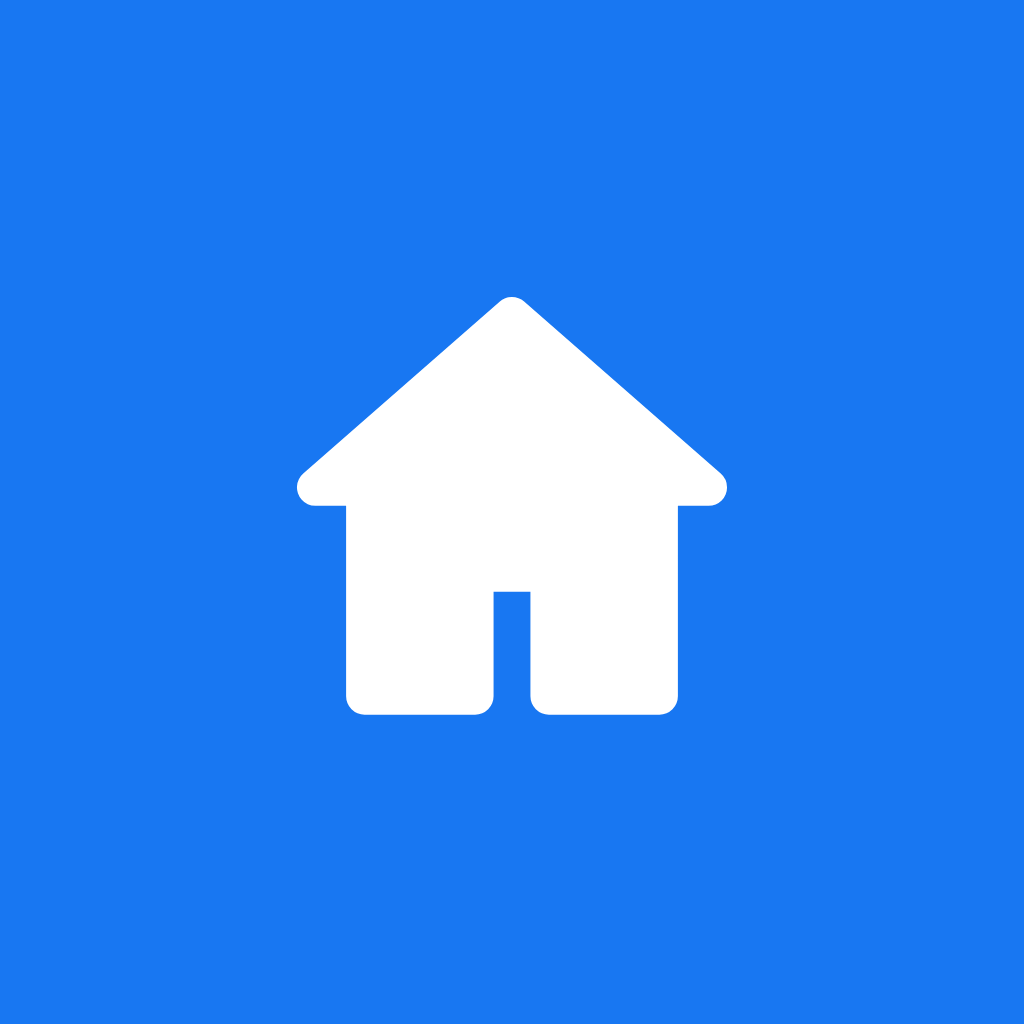
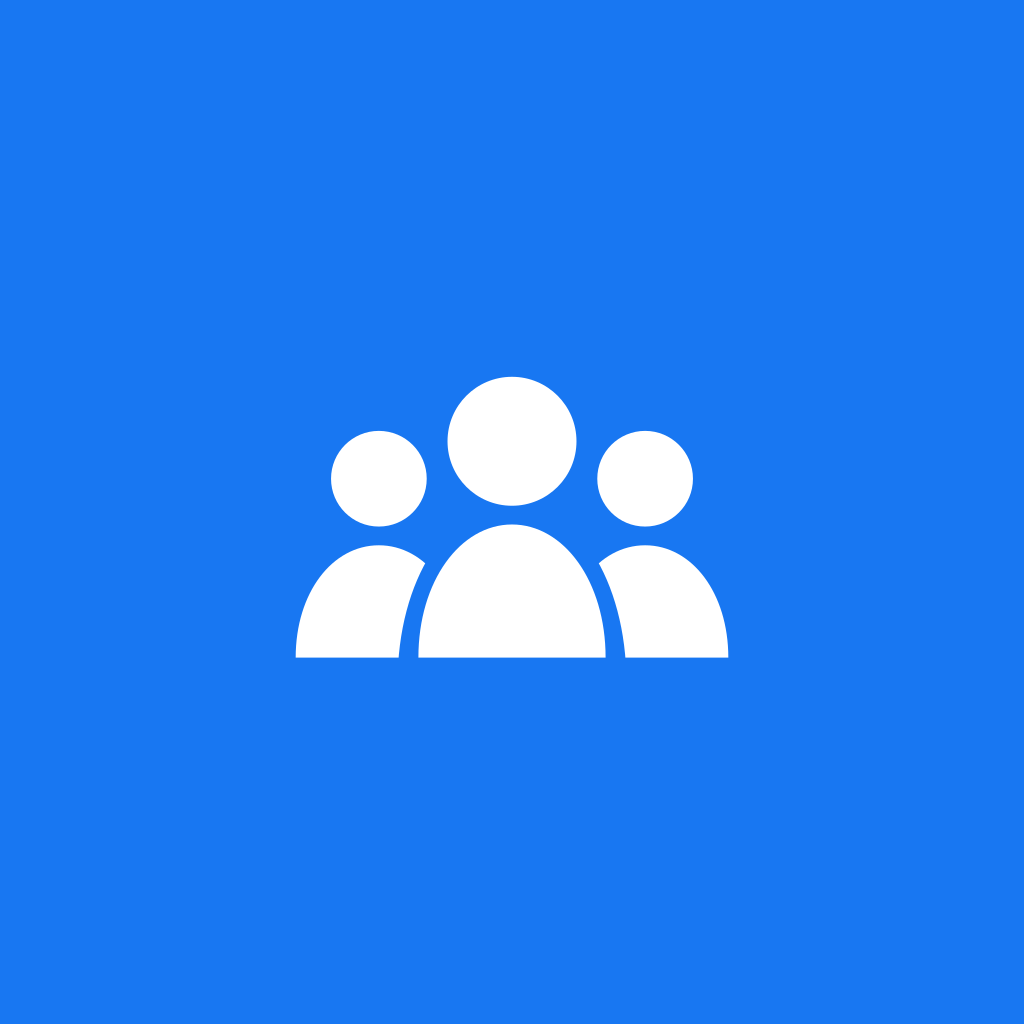
New community mark in place of the house; privacy page states Sponsored listings
- The CampConnect mark is now three people, the one in front a little
  larger, white on the brand blue. It replaces the house in the website's
  navbar and sign-in page (BrandMark), the favicon, and the app's icon,
  Android adaptive icon, splash image and web favicon, all drawn from one
  shape. The Home tab keeps its house icon.
- Privacy: "We do not show advertising" is replaced by a Sponsored listings
  section. Student accounts are free. CampConnect may show labeled Sponsored
  listings and promotions from local businesses, chosen by campus.
  Businesses see only totals for their own listings and deals, and see who
  you are only if you message them.

Changed region(s): [[0.2812, 0.2812, 0.7188, 0.7188]]

diff --git a/apps/web/src/app/privacy/page.tsx b/apps/web/src/app/privacy/page.tsx
@@ -5,13 +5,15 @@ export const metadata: Metadata = { title: "Privacy policy" };
 
 export default function PrivacyPage() {
   return (
-    <LegalPage title="Privacy policy" updated="September 2026">
+    <LegalPage title="Privacy policy" updated="October 2026">
       <h2>What we collect</h2>
       <p>Your name, university email address, the profile details you choose to add (photo, program, bio), the listings, posts, comments and messages you create, and basic device information such as a push notification token if you allow notifications.</p>
       <p>Photos and videos you upload are stored as you provide them. Location data in photos (EXIF) is not used to place your listing; a listing only has a map location when you set one.</p>
       <h2>How we use it</h2>
       <p>To run CampConnect: show your posts to other students, deliver your messages, count views and messages on your own listings, show who is online (you can turn this off in Settings), and send notifications you have opted into.</p>
-      <p>We do not sell your data and we do not show advertising.</p>
+      <h2>Sponsored listings</h2>
+      <p>Student accounts are free. To keep them free, CampConnect may show Sponsored listings and promotions from local businesses, such as apartments and deals near campus. They are always labeled “Sponsored”, and which ones you see depends on your campus.</p>
+      <p>We do not sell your data. A business sees only totals for its own listings and deals (views, saves and messages), never who viewed or saved them. It learns who you are only if you message it, and then sees your name, your profile photo and what you send.</p>
       <h2>Who can see what</h2>
       <p>Listings, roommate posts, marketplace items, comments and your public profile are visible to everyone who uses the app. Messages are visible only to the members of the conversation. Reports you file are visible only to the team.</p>
       <h2>Where it lives</h2>

diff --git a/apps/web/src/components/brand-mark.tsx b/apps/web/src/components/brand-mark.tsx
@@ -1,0 +1,30 @@
+/**
+ * The CampConnect mark: three people, the one in front a little larger, for a network of students. Drawn in the current
+ * text colour (white on the blue brand disc), in a 64×64 box. The two behind are cut where the front one overlaps them
+ * (a mask, so the cut shows whatever is behind: the Aurora disc included). `id` names that mask and must be unique on
+ * the page. The same drawing makes the favicon (src/app/icon.svg) and the app's icons (apps/mobile/assets/images).
+ */
+export function BrandMark({ id, className }: { id: string; className?: string }) {
+  const mask = `brand-mark-${id}`;
+  return (
+    <svg viewBox="0 0 64 64" className={className} aria-hidden="true" focusable="false">
+      <defs>
+        <mask id={mask} maskUnits="userSpaceOnUse" x="0" y="0" width="64" height="64">
+          <rect width="64" height="64" fill="#fff" />
+          <circle cx="32" cy="23" r="10.25" fill="#000" />
+          <path d="M18.25 52 C18.25 39.6 24.4 30.25 32 30.25 S45.75 39.6 45.75 52 Z" fill="#000" />
+        </mask>
+      </defs>
+      <g fill="currentColor" transform="translate(0 0.5)">
+        <g mask={`url(#${mask})`}>
+          <circle cx="16" cy="27.5" r="5.75" />
+          <path d="M6 49 C6 41.2 10.4 35.5 16 35.5 S26 41.2 26 49 Z" />
+          <circle cx="48" cy="27.5" r="5.75" />
+          <path d="M38 49 C38 41.2 42.4 35.5 48 35.5 S58 41.2 58 49 Z" />
+        </g>
+        <circle cx="32" cy="23" r="7.75" />
+        <path d="M20.75 49 C20.75 39.8 25.8 33 32 33 S43.25 39.8 43.25 49 Z" />
+      </g>
+    </svg>
+  );
+}

diff --git a/apps/web/src/components/layout/navbar.tsx b/apps/web/src/components/layout/navbar.tsx
@@ -1,6 +1,7 @@
 import Link from "next/link";
 import { Suspense } from "react";
-import { Home, Search } from "lucide-react";
+import { Search } from "lucide-react";
+import { BrandMark } from "@/components/brand-mark";
 import { APP_NAME, getTotalUnread, getUnreadNotificationCount } from "@apartment-book/shared";
 import { getCurrentProfile, getCurrentUser } from "@/lib/auth";
 import { createClient } from "@/lib/supabase/server";
@@ -32,7 +33,7 @@ export async function Navbar() {
           <div className="flex min-w-0 flex-1 items-center gap-3 md:flex-none md:basis-72 2xl:basis-[30rem]">
             <Link href="/" className="flex shrink-0 items-center gap-2 text-brand-600" aria-label={APP_NAME}>
               <span className="flex h-10 w-10 items-center justify-center rounded-full bg-brand-600 bg-aurora text-white">
-                <Home className="h-6 w-6" />
+                <BrandMark id="nav" className="h-7 w-7" />
               </span>
               <span className="hidden text-xl font-bold 2xl:inline">{APP_NAME}</span>
             </Link>

diff --git a/apps/web/src/app/(auth)/layout.tsx b/apps/web/src/app/(auth)/layout.tsx
@@ -1,6 +1,6 @@
 import Link from "next/link";
-import { Home } from "lucide-react";
 import { APP_NAME, APP_TAGLINE } from "@apartment-book/shared";
+import { BrandMark } from "@/components/brand-mark";
 
 export default function AuthLayout({ children }: { children: React.ReactNode }) {
   return (
@@ -8,7 +8,7 @@ export default function AuthLayout({ children }: { children: React.ReactNode }) 
       <div className="mb-8 flex flex-col items-center gap-2 text-center">
         <Link href="/" className="flex items-center gap-2 text-2xl font-bold text-brand-600">
           <span className="flex h-10 w-10 items-center justify-center rounded-xl bg-brand-600 bg-aurora text-white">
-            <Home className="h-6 w-6" />
+            <BrandMark id="auth" className="h-7 w-7" />
           </span>
           {APP_NAME}
         </Link>
